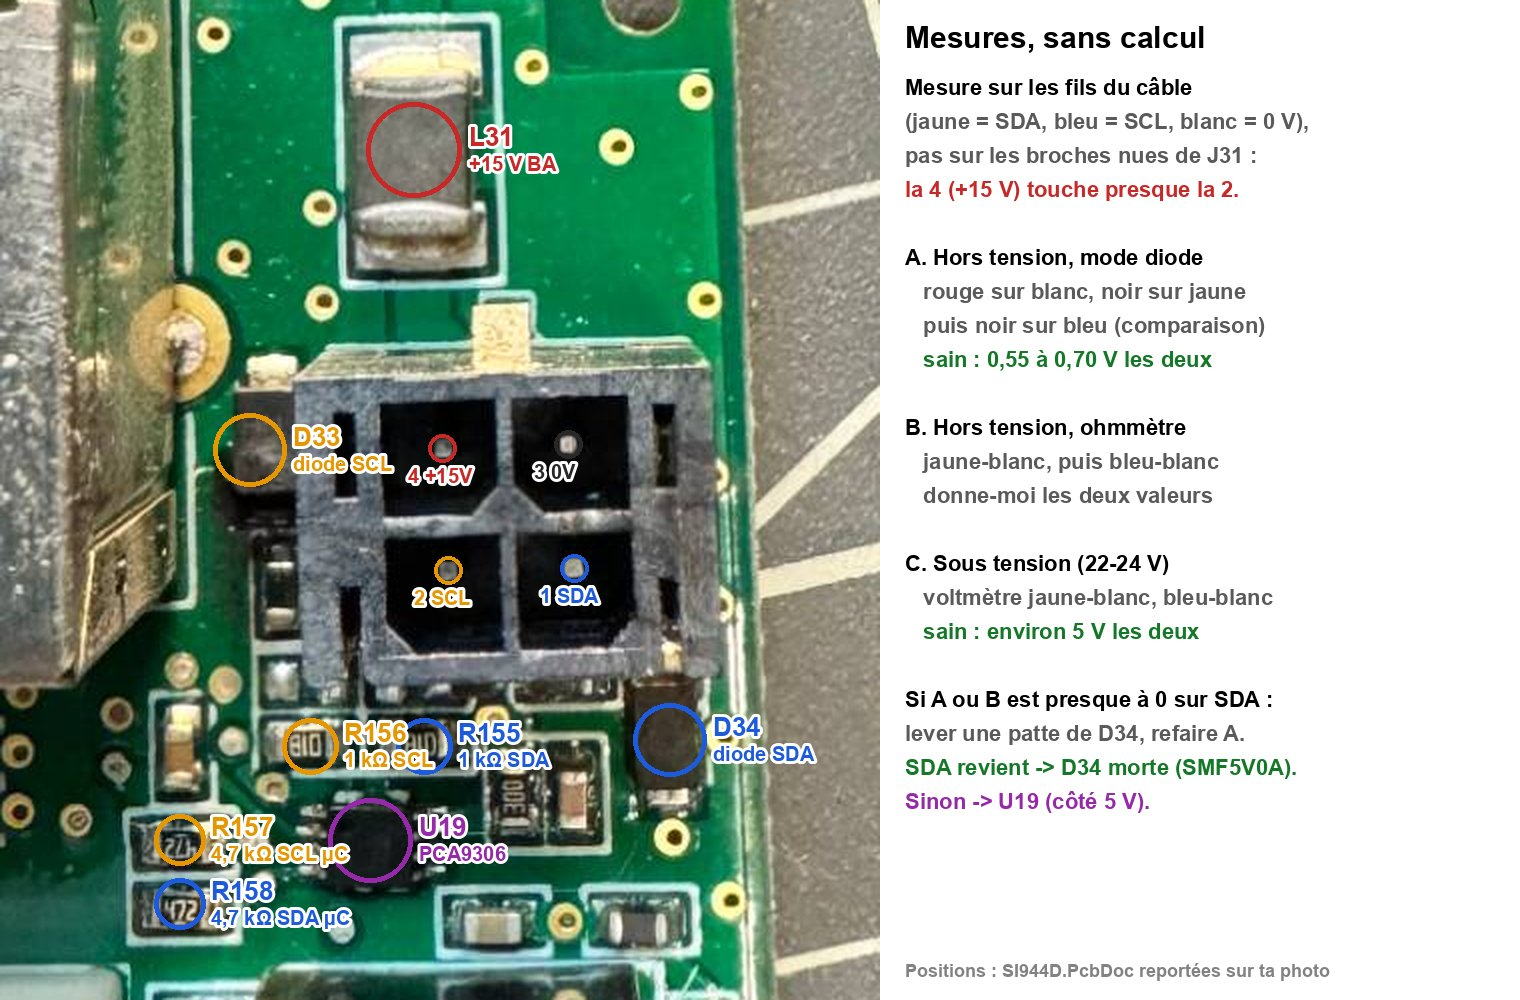
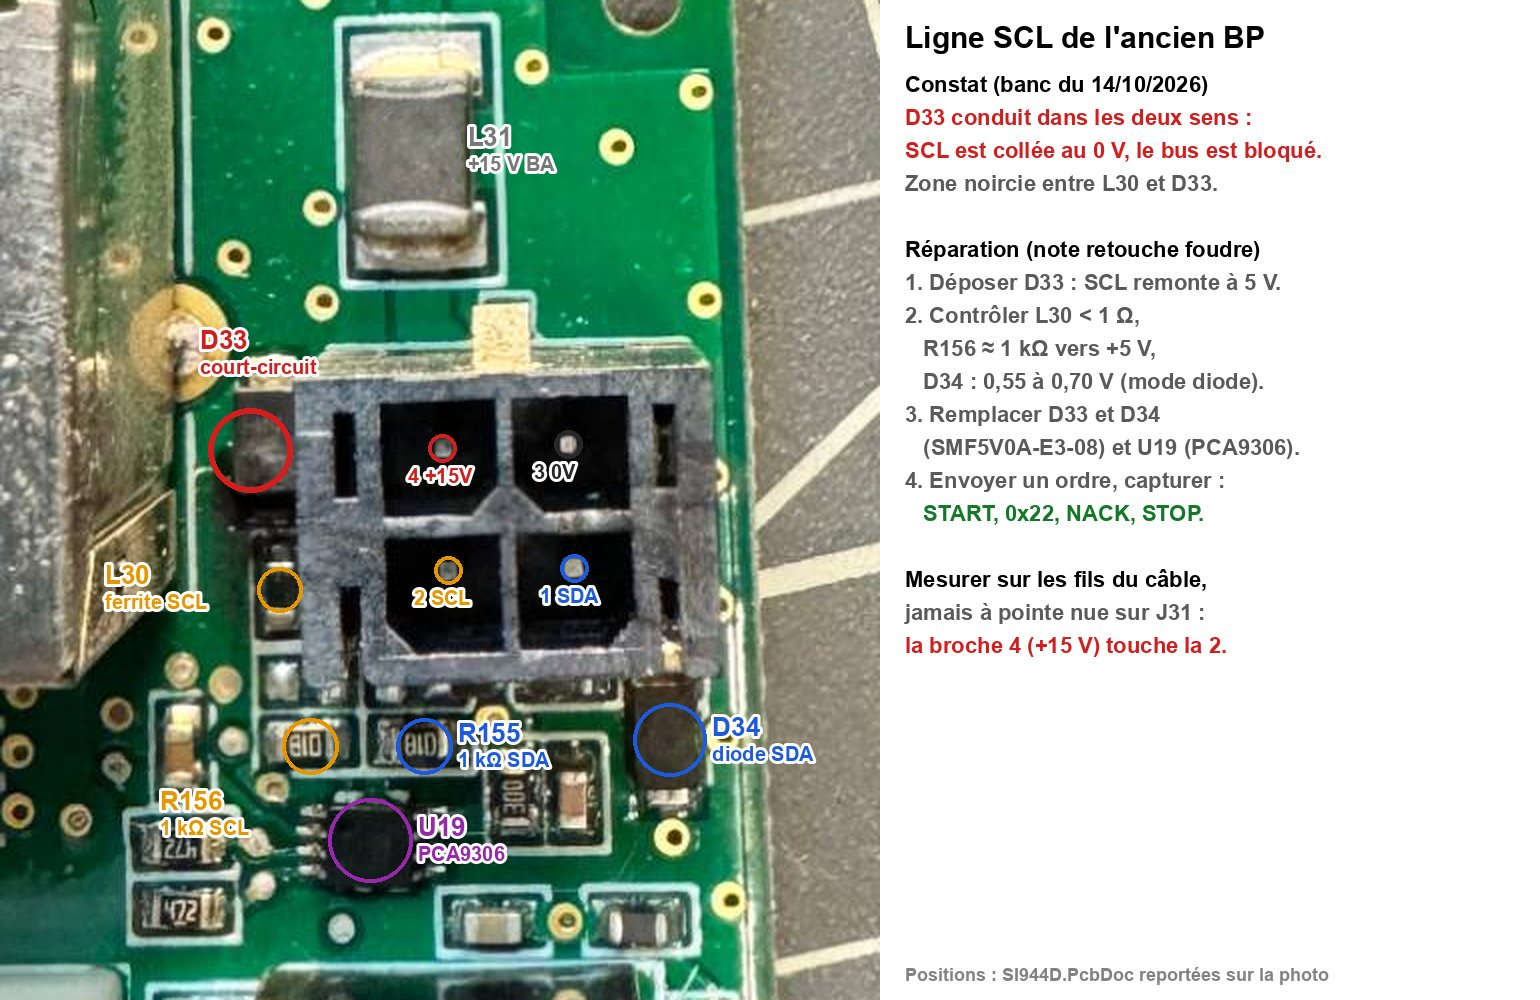
docs(retex): ancien BP, SCL collée par D33 en court-circuit (essensys-hub/essensys-board-SC944D#2)
Correction de la sous-section « Banc du 14 octobre » de l'analyse experte :
- la ligne collée à 0 est SCL, pas SDA. Les couleurs du câble de banc
  étaient inversées (lecture en miroir côté fils), ce que signale un
  encadré d'avertissement ;
- D33 (SMF5V0A, diode de BA_SCL) conduit dans les deux sens ; la zone
  entre L30 et D33 paraît noircie. Gros plan annoté ajouté ;
- réparation, d'après la note retouche foudre du SC944D (tâche 3.2) :
  déposer D33 ; contrôler L30, R156 et D34 ; remplacer D33, D34
  (SMF5V0A-E3-08) et U19 ; vérifier par une capture START/0x22/NACK ;
- photo annotée refaite, encadré de statut et « Ce qui a changé sur le
  site » corrigés.

Changed region(s): [[0.0309, 0.0, 0.8658, 1.0], [0.0618, 0.961, 0.1237, 1.0], [0.1546, 0.961, 0.1855, 1.0]]

diff --git a/docs/retex/foudre-2026/analyse-experte.md b/docs/retex/foudre-2026/analyse-experte.md
@@ -23,7 +23,7 @@ Elle s'adresse aux électroniciens, aux contributeurs du projet open hardware et
 !!! warning "Statut de l'analyse (octobre 2026)"
     L'analyse a été faite sur dossier et sur photos. **Aucune mesure électrique n'a encore été faite sur les cartes.** Le BA en cause, s'il y en a un, n'est pas identifié, et l'origine de la surtension n'est pas établie. Une première version de l'analyse, écrite sans les photos du site, supposait une topologie fausse ; elle a été corrigée (voir [Méthode](#methode)).
 
-    **Mise à jour du 14 octobre 2026.** Le BP et le BA de bout de chaîne ont été remplacés. Ce BA répond ; les deux autres restent muets. Le code du BP et des BA a été analysé. Au banc, l'ancien BP tient la ligne SDA à 0 en permanence. Voir [Suivi du diagnostic](#suivi).
+    **Mise à jour du 14 octobre 2026.** Le BP et le BA de bout de chaîne ont été remplacés. Ce BA répond ; les deux autres restent muets. Le code du BP et des BA a été analysé. Au banc, l'ancien BP tient la ligne SCL à 0 : sa diode de protection D33 est en court-circuit. Voir [Suivi du diagnostic](#suivi).
 
 ## Résumé { #resume }
 
@@ -47,7 +47,7 @@ Cette section complète l'analyse initiale. Elle ne la remplace pas : les secti
     - le SC940D exécute les siens : l'éclairage de l'entrée fonctionne ;
     - le BA chambres (SC942C, adresse 0x12) et le BA pièces d'eau (SC941C, adresse 0x13) restent muets. L'index 12 vaut **0x18**.
 - **Le bus n'est plus bloqué** *[déduit]*. Le chaînage relevé sur les photos est BP → SC942C → SC941C → SC940D. Le SC940D, en bout de chaîne, reçoit SDA, SCL et +15 V à travers les connecteurs des deux autres BA. La cause « ligne tenue basse » du [§8](#bus-bloque) ne décrit plus l'état actuel : **le défaut est local au SC942C et au SC941C**.
-- **L'ancien BP tenait le bus bloqué** *[établi, banc]*. Au banc, seul et sans BA, il garde SDA à 0 en permanence ; SCL est saine. Voir [Banc du 14 octobre](#banc-bp).
+- **L'ancien BP tenait le bus bloqué** *[établi, banc]*. Au banc, seul et sans BA, il garde SCL à 0 en permanence : D33, la diode de protection de SCL, est en court-circuit. SDA est saine. Voir [Banc du 14 octobre](#banc-bp).
 
 ### Fausses pistes écartées *[établi, code]*
 
@@ -100,7 +100,7 @@ Tous les BP archivés, de 095-34 (octobre 2015) à 099-37 (janvier 2017), utilis
 - **L'espion I2C passif** est en cours de fabrication.
 - **Avant toute remise en service**, l'essai d'isolement à 500 V continu reste obligatoire sur les deux BA ([§9.4](#diagnostic)).
 
-### Banc du 14 octobre : l'ancien BP tient SDA à 0 { #banc-bp }
+### Banc du 14 octobre : l'ancien BP tient SCL à 0, D33 en court-circuit { #banc-bp }
 
 **Montage** *[établi]* :
 
@@ -108,43 +108,52 @@ Tous les BP archivés, de 095-34 (octobre 2015) à 099-37 (janvier 2017), utilis
 - un analyseur logique USB à puce FX2, piloté par sigrok et échantillonnant à 1 MHz, est branché sur J31 : SDA (J31-1), SCL (J31-2) et 0 V (J31-3). La broche 4 (+15 V) reste libre ;
 - le BP est alimenté par une alimentation de banc de 12 V, puis de 15 V. BA_ALIM mesure alors environ 10 V, puis 12 V. C'est attendu : le convertisseur 24 V → 15 V du BP (U12, LM3150) demande 16,5 à 40 V en entrée. Pour retrouver 15 V sur J31-4, alimenter le BP en 22 à 24 V flottant.
 
+!!! warning "Couleurs du câble de banc inversées"
+    Au premier relevé, la voie de l'analyseur collée à 0 était notée SDA. Le court-circuit de D33, la diode de SCL, a montré que les deux fils étaient inversés. Un connecteur vu côté fils se lit en miroir : repérer chaque broche au multimètre avant de câbler.
+
 **Capture de 3 minutes, avec deux coupures du BP** *[établi]* :
 
-- **SCL** est à 1 sous tension et tombe à 0 pendant les deux coupures (environ 12 s, puis 0,85 s). Elle remonte à chaque remise sous tension : la ligne est saine, et sa résistance de rappel R156 fonctionne ;
-- **SDA est à 0 pendant toute la capture**, BP allumé ou éteint, malgré les deux redémarrages. Elle ne montre que 18 impulsions de 1 à 3 µs, irrégulières, sur 2 ms ;
+- **SCL est à 0 pendant toute la capture**, BP allumé ou éteint, malgré les deux redémarrages. On n'y voit que 18 impulsions de 1 à 3 µs, irrégulières, sur 2 ms, sans doute des parasites ;
+- **SDA** est à 1 sous tension et tombe à 0 pendant les deux coupures (environ 12 s, puis 0,85 s). Elle remonte à chaque remise sous tension : la ligne est saine, et sa résistance de rappel R155 fonctionne ;
 - aucune trame I2C n'apparaît, ce qui est attendu : le BP n'envoie rien tant qu'il n'a pas d'ordre à transmettre.
 
 <figure markdown="span">
-  ![Chronogrammes de trois voies d'analyseur logique sur 180 secondes, puis trois agrandissements. CH1 (SDA) reste au niveau bas pendant toute la capture, avec quelques impulsions très brèves vers 99 secondes. CH3 (SCL) est au niveau haut, sauf pendant deux coupures de l'alimentation, de 1 à 13 secondes puis vers 87 secondes. CH2, non raccordée, reste au niveau haut.](img/banc-bp-traces-sda-scl.png){ loading=lazy }
-  <figcaption>Ancien BP au banc, sans BA. CH1 = SDA, collée à 0. CH3 = SCL, qui suit l'alimentation du BP. CH2 n'est pas raccordée : une entrée libre de cet analyseur lit 1.</figcaption>
+  ![Chronogrammes de trois voies d'analyseur logique sur 180 secondes, puis trois agrandissements. CH1, raccordée à SCL, reste au niveau bas pendant toute la capture, avec quelques impulsions très brèves vers 99 secondes. CH3, raccordée à SDA, est au niveau haut, sauf pendant deux coupures de l'alimentation, de 1 à 13 secondes puis vers 87 secondes. CH2, non raccordée, reste au niveau haut.](img/banc-bp-traces-sda-scl.png){ loading=lazy }
+  <figcaption>Ancien BP au banc, sans BA. CH1 = SCL, collée à 0. CH3 = SDA, qui suit l'alimentation du BP. CH2 n'est pas raccordée : une entrée libre de cet analyseur lit 1.</figcaption>
+</figure>
+
+**Le composant en cause** *[établi, mesure]* : D33, la diode de protection de SCL (SMF5V0A, cathode sur `BA_SCL`, anode au 0 V, entre J31 et la prise RJ45), **conduit dans les deux sens**. Elle tient SCL à la masse. La zone entre D33 et la ferrite L30 paraît noircie *[établi, photo]*.
+
+<figure markdown="span">
+  ![Gros plan entre le connecteur J31 à gauche et la prise RJ45 à droite. Une diode noire rectangulaire, D33, est encadrée en rouge avec la mention « diode de SCL en court-circuit ». Au-dessus, une petite ferrite, L30, est entourée en orange. Entre les deux, une zone sombre est signalée comme « zone noircie ».](img/banc-bp-d33-gros-plan.jpg){ loading=lazy }
+  <figcaption>D33, entre J31 et la prise RJ45, conduit dans les deux sens. Au-dessus, la ferrite L30 de SCL, à contrôler. La zone entre les deux paraît noircie.</figcaption>
 </figure>
 
 **Interprétation** :
 
-- *[déduit]* Sans BA, R155 (1 kΩ vers +5VS) doit tirer SDA à environ 5 V. Quelque chose la tient à la masse, sur le BP ou sur le câble du banc, qui reste à écarter.
+- *[établi]* Une diode de protection qui a absorbé trop d'énergie finit d'ordinaire en court-circuit. D33 a joué son rôle, puis elle a mis la ligne SCL à la masse.
 - *[déduit]* C'est le mécanisme du [§8](#bus-bloque) : une seule ligne tenue basse fait taire les trois BA. **Le BP d'origine faisait donc partie des cartes en cause.** Le SC942C et le SC941C, toujours muets avec un BP neuf, ont leur propre défaut.
-- *[hypothèse]* Les impulsions brèves font penser à une ligne proche du seuil, donc à une fuite, plutôt qu'à un court-circuit franc.
+- *[déduit]* La diode a pris l'impulsion côté connecteur. U19 (PCA9306), juste derrière, a pu en recevoir une partie ([§10](#court-terme)).
 
-**Suspects, dans l'ordre** :
+**Réparation**, d'après la note « retouche foudre » du SC944D (tâche 3.2) :
 
-1. D34, la diode de protection de SDA (SMF5V0A, près de J31). Ce type de diode finit d'ordinaire en court-circuit.
-2. U19 (PCA9306), côté 5 V.
-3. Le câble du banc.
+1. **Déposer D33.** Sous tension, SCL doit remonter à environ 5 V. Une nouvelle capture doit montrer la voie SCL à 1.
+2. **Contrôler avant de remonter :**
 
-**Mesures en cours.** Elles se font sur les fils du câble, jamais à pointe nue sur J31, où la broche 4 (+15 V) touche presque la broche 2 :
+    | Mesure | Valeur saine |
+    |---|---|
+    | L30, ferrite de SCL | moins de 1 Ω |
+    | R156, de la ligne SCL au +5 V | environ 1 kΩ |
+    | D34, diode de SDA, en mode diode (+ sur le 0 V) | 0,55 à 0,70 V |
 
-| | Conditions | Mesure | Valeur saine |
-|---|---|---|---|
-| A | hors tension, mode diode, + sur le 0 V | − sur SDA, puis sur SCL | 0,55 à 0,70 V pour les deux |
-| B | hors tension, ohmmètre | SDA–0 V, puis SCL–0 V | valeurs à comparer |
-| C | sous tension, 22 à 24 V | tension SDA–0 V, puis SCL–0 V | environ 5 V pour les deux |
+3. **Remplacer D33 et D34** par des SMF5V0A-E3-08, et **U19** par un PCA9306 identique. La note demande de changer U19 dès que D33 ou D34 a claqué.
+4. **Vérifier en fonctionnement** : envoyer un ordre, puis capturer. Sans BA, on doit voir START, l'adresse 0x22 (BA 0x11 en écriture), un NACK et un STOP, répétés environ toutes les 100 ms.
 
-- **Si SDA lit presque 0 en A ou en B** : lever une patte de D34 et refaire la mesure A. Si SDA redevient normale, D34 est morte : c'est une réparation simple. Sinon, le défaut est dans U19.
-- **Pour écarter le câble** : refaire la mesure C directement sur J31, câble débranché.
+Les mesures se font sur les fils du câble, jamais à pointe nue sur J31, où la broche 4 (+15 V) touche presque la broche 2.
 
 <figure markdown="span">
-  ![Gros plan du coin du BP autour du connecteur J31. Les composants de la ligne I2C sont entourés et nommés : L31 au-dessus du connecteur, D33 à gauche, D34 en bas à droite, R155 et R156 sous le connecteur, U19 plus bas, R157 et R158 en bas à gauche. Les quatre broches de J31 sont repérées : 1 SDA, 2 SCL, 3 0 V, 4 +15 V. Un encadré à droite rappelle les trois mesures et leurs valeurs saines.](img/banc-bp-points-de-mesure.jpg){ loading=lazy }
-  <figcaption>Les composants de SDA et de SCL sur l'ancien BP, avec leurs positions tirées du fichier PCB. Les deux résistances marquées « 01B » font 1 kΩ (R155, R156), les deux marquées « 472 » font 4,7 kΩ (R157, R158). Aucune trace visible de dégât : seule la mesure tranchera.</figcaption>
+  ![Gros plan du coin du BP autour du connecteur J31. Les composants des lignes I2C sont entourés et nommés : D33 à gauche du connecteur, marquée en rouge « court-circuit », L30 juste en dessous, D34 en bas à droite, R155 et R156 sous le connecteur, U19 plus bas, L31 au-dessus. Les quatre broches de J31 sont repérées : 1 SDA, 2 SCL, 3 0 V, 4 +15 V. Un encadré à droite résume le constat et les quatre étapes de la réparation.](img/banc-bp-points-de-mesure.jpg){ loading=lazy }
+  <figcaption>Les composants de SDA et de SCL sur l'ancien BP, avec leurs positions tirées du fichier PCB. Les deux résistances marquées « 01B » font 1 kΩ (R155 pour SDA, R156 pour SCL).</figcaption>
 </figure>
 
 ## 1. Contexte { #contexte }
